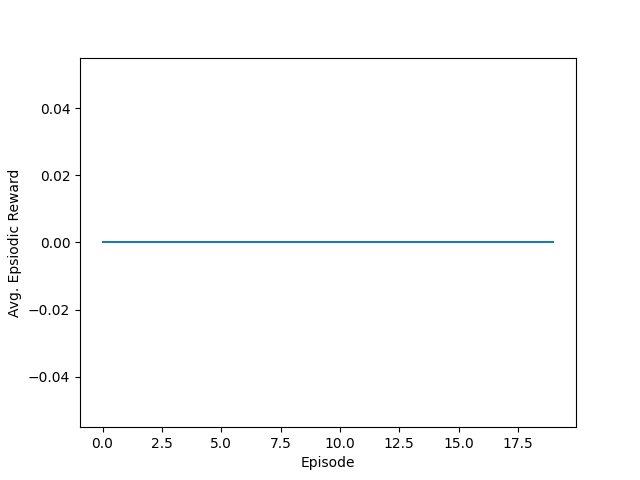
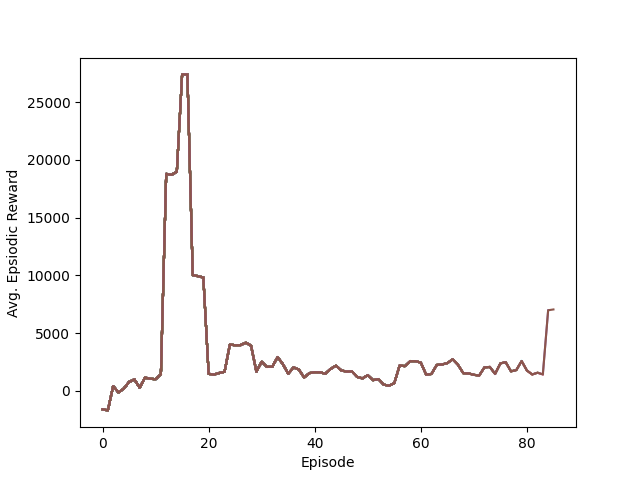
robot seems to be learning

diff --git a/pyrep/turtle_rl.py b/pyrep/turtle_rl.py
@@ -20,9 +20,9 @@ from os import system
 
 SCENE_FILE = join(dirname(abspath(__file__)),
                   'turtle_rl.ttt')
-POS_MIN, POS_MAX = [0.8, -0.2, 0.05], [1.0, 0.2, 0.05]
-EPISODES = 20
-EPISODE_LENGTH = 2500
+POS_MIN, POS_MAX = [-15.0, -15.0, 0.05], [15.0, 15.0, 0.05]
+EPISODES = 1000
+EPISODE_LENGTH = 500
 
 class NavigationEnv(object):
     def __init__(self):
@@ -78,11 +78,17 @@ class NavigationEnv(object):
         self.pr.step()
         robot_x, robot_y, yaw = self.agent.get_2d_pose()
         tx, ty, tz = self.target.get_position()
-        reward = -np.sqrt((robot_x - tx) ** 2 + (robot_y - ty) ** 2)
+
+        # negative reward for distance
+        reward = -self._get_state()[0]
+        
+        # positive reward for facing the target
+        if np.abs(self._get_state()[1]) < 1:
+            reward += 1/np.abs(self._get_state()[1])
 
         # env finishes when the robot is close enough to the target
         done = False
-        if reward > -0.5:
+        if self._get_state()[0] < 0.1:
             done = True
 
         return reward, self._get_state(), done
@@ -127,9 +133,6 @@ def main():
 
             action = [action[0][0], action[0][1]]
 
-            print(action)
-
-
             reward, state, done = env.step(action)
 
             if i > EPISODE_LENGTH:
@@ -140,21 +143,24 @@ def main():
             agent.learn()
             agent.update_target()
 
+            # print(f'Action: {action}, Reward: {reward}')
+
             i += 1
+            episodic_reward += reward
 
         ep_reward_list.append(episodic_reward)
 
         # Mean of last 40 episodes
-        avg_reward = np.mean(ep_reward_list[-10:])
-        print("Episode * {} * Avg Reward is ==> {}".format(i, avg_reward))
+        avg_reward = np.mean(ep_reward_list[-5:])
+        print("Episode * {} * Avg Reward is ==> {}".format(e, avg_reward))
         avg_reward_list.append(avg_reward)
 
-    # Plotting graph
-    # Episodes versus Avg. Rewards
-    plt.plot(avg_reward_list)
-    plt.xlabel("Episode")
-    plt.ylabel("Avg. Epsiodic Reward")
-    plt.savefig('result.png')  
+        # Plotting graph
+        # Episodes versus Avg. Rewards
+        plt.plot(avg_reward_list)
+        plt.xlabel("Episode")
+        plt.ylabel("Avg. Epsiodic Reward")
+        plt.savefig('result.png')  
 
 if __name__ == '__main__':
     main()
